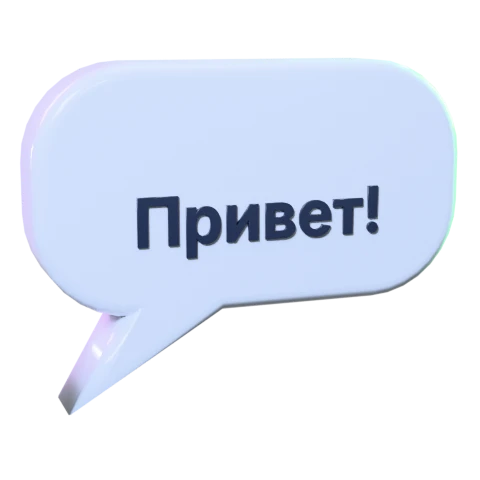
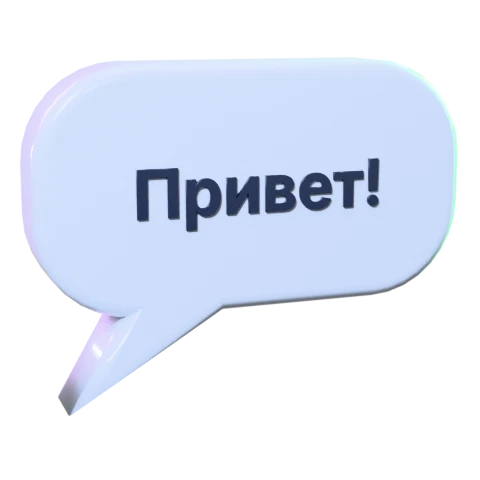
Centre the greeting on the hello bubble
The text ignored the bubble's vertical lift and sat 0.08 below centre.

Changed region(s): [[0.2812, 0.3125, 0.8125, 0.5625], [0.8438, 0.5625, 0.875, 0.5938], [0.1562, 0.625, 0.1875, 0.6562]]

diff --git a/frontend/design/illustrations/objects/hello_bubble.py b/frontend/design/illustrations/objects/hello_bubble.py
@@ -22,6 +22,8 @@ def build(r):
     bubble_mat = r.plastic('bubble', '#fbfcfe', rough=0.22, coat=0.6)
     # Flush, thin and dark: raised light-blue letters cast shadows and blended into the pale bubble.
     ink = r.material('ink', r.NAVY, rough=0.5)
-    r.shape('Bubble', outline(), 0.16, (0, 0, 0.08), mat=bubble_mat, bevel=0.06)
+    lift = 0.08
+    r.shape('Bubble', outline(), 0.16, (0, 0, lift), mat=bubble_mat, bevel=0.06)
     front = -0.08 - 0.06 * r.BEVEL_SCALE
-    r.text('Hello', 'Привет!', 0.27, 0.012, (0, front - 0.002, 0.42), mat=ink)
+    # Centre of the rounded body: outline centre (0.42) plus the lift.
+    r.text('Hello', 'Привет!', 0.27, 0.012, (0, front - 0.002, 0.42 + lift), mat=ink)
